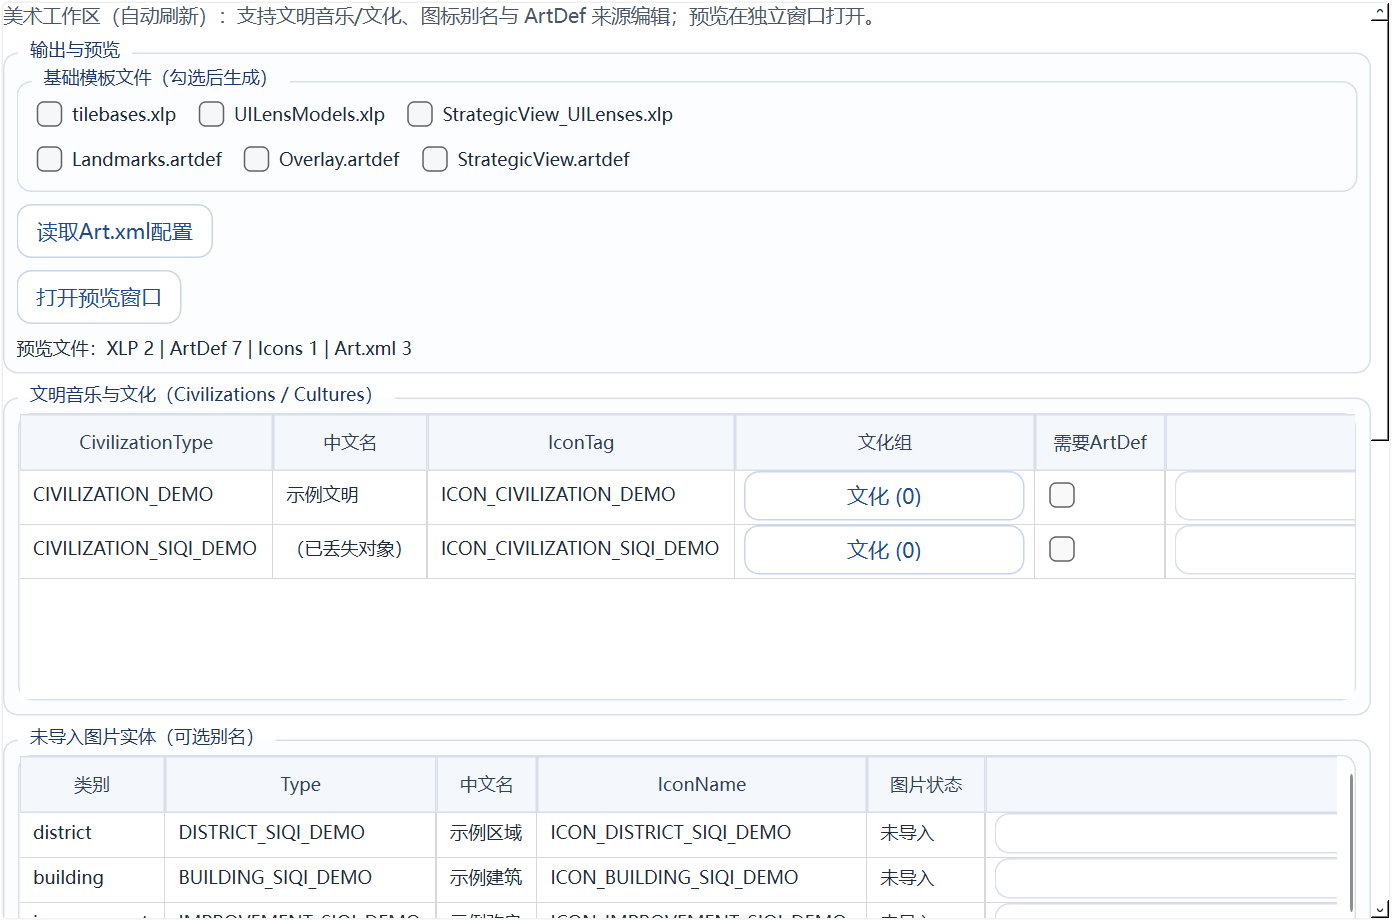
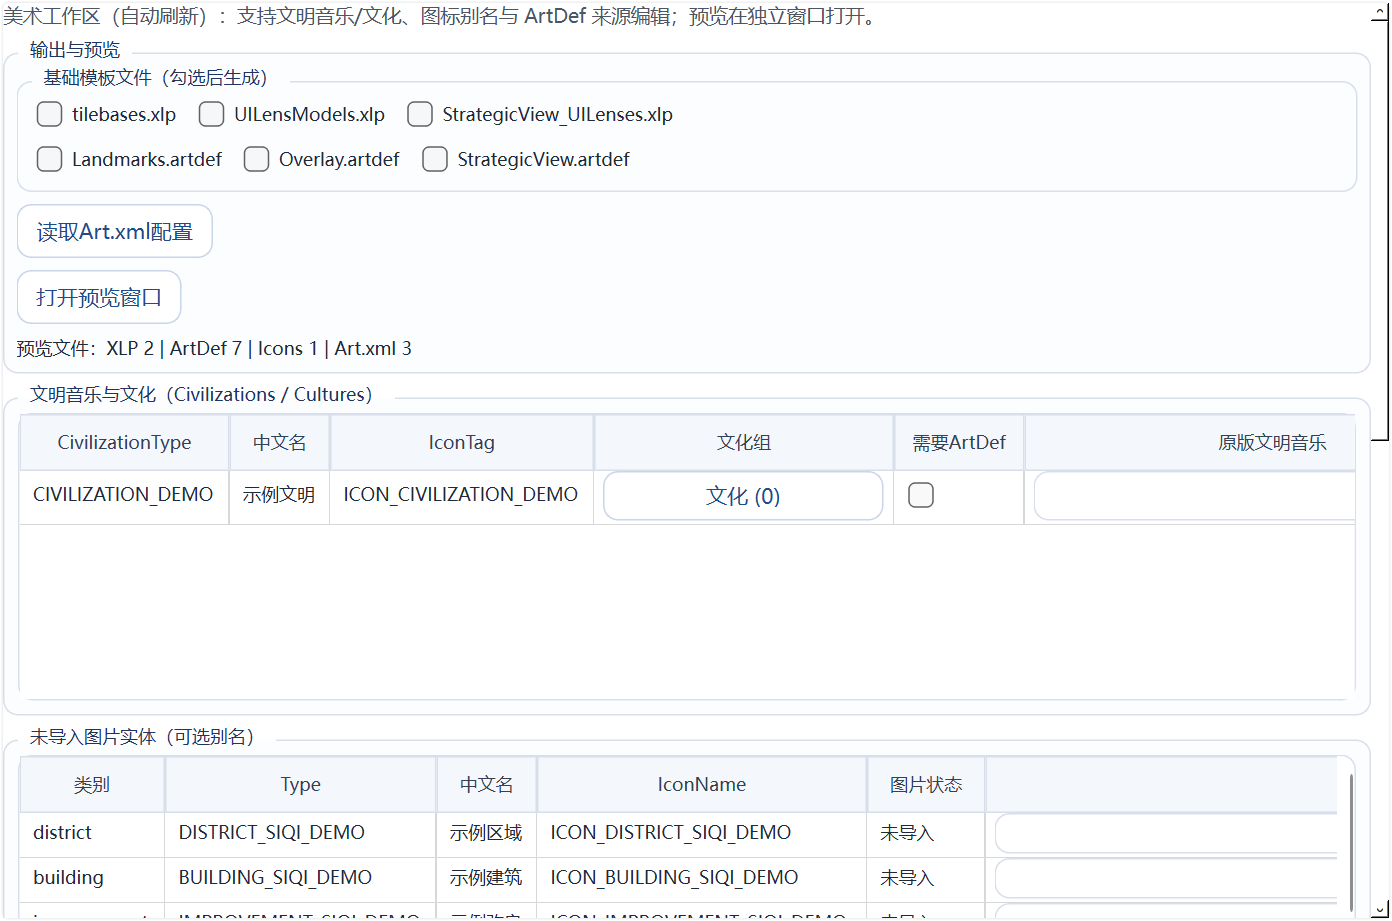
修复美术工作区已丢失对象残留行：不再渲染孤儿行，刷新时清理无配置空残留(保留带配置数据)；新增6个回归用例(45总)；截图重生成

diff --git a/ModTools_5_4/ui/pages/art_workspace.py b/ModTools_5_4/ui/pages/art_workspace.py
@@ -891,6 +891,7 @@ class ArtWorkspacePanel(QWidget):
 
     def refresh_from_sections(self, sections: dict[str, object]) -> None:
         self._sections = sections if isinstance(sections, dict) else {}
+        self._prune_orphan_state()
         self._replacement_maps = self._load_replacement_maps()
         self._civ_source_options = self._load_civ_source_options()
         self._alias_options = self._load_alias_options()
@@ -933,6 +934,54 @@ class ArtWorkspacePanel(QWidget):
             len(self._source_rows),
             str(need_hits),
         )
+
+    def _prune_orphan_state(self) -> None:
+        """清理美术状态中已无对应分区条目的“空配置”残留。
+
+        与历史时刻孤儿行修复同一原则：状态里存在、但分区条目已删除/改名的 key，
+        不再在表格中显示（不再出现“（已丢失对象）”行）；
+        仅当残留没有任何实际配置时才从状态中删除（避免无意义堆积）；
+        仍带配置（need / 音乐 / 文化组 / 源引用）的残留保留在状态中，对象恢复后配置可回填。
+        """
+        section_types = {type_name for type_name, _cn, _entry in self._collect_new_items("文明") if _safe_text(type_name)}
+
+        raw_civs = self._state.get("civs")
+        if isinstance(raw_civs, dict):
+            for civ_type in [key for key in raw_civs]:
+                if civ_type in section_types:
+                    continue
+                meta = raw_civs[civ_type]
+                if not isinstance(meta, dict):
+                    continue
+                cultures = meta.get("cultures")
+                has_cultures = isinstance(cultures, dict) and any(
+                    value for value in cultures.values()
+                    if isinstance(value, (list, tuple, set)) and _safe_text(value)
+                )
+                meaningful = bool(meta.get("need")) or bool(meta.get("music_source")) or has_cultures
+                if not meaningful:
+                    del raw_civs[civ_type]
+
+        source_sections = (
+            ("district", "区域"), ("building", "建筑"),
+            ("improvement", "改良设施"), ("unit", "单位"),
+        )
+        existing_source_keys = {
+            f"{entity}:{type_name}"
+            for entity, section in source_sections
+            for type_name, _cn, _entry in self._collect_new_items(section, name_key="Name")
+            if _safe_text(type_name)
+        }
+        raw_need = self._state.get("need_map")
+        raw_source = self._state.get("source_map")
+        if isinstance(raw_need, dict) and isinstance(raw_source, dict):
+            orphan_keys = (set(raw_need) | set(raw_source)) - existing_source_keys
+            for state_key in orphan_keys:
+                has_need = bool(raw_need.get(state_key))
+                has_source = bool(_safe_text(raw_source.get(state_key)))
+                if not has_need and not has_source:
+                    raw_need.pop(state_key, None)
+                    raw_source.pop(state_key, None)
 
     def _state_moments_map(self) -> dict[str, dict[str, object]]:
         raw = self._state.get("moments_map")
@@ -1399,9 +1448,7 @@ class ArtWorkspacePanel(QWidget):
     def _build_civ_rows(self) -> list[_CivArtRow]:
         section_items = self._collect_new_items("文明")
         section_types = [type_name for type_name, _cn, _entry in section_items if _safe_text(type_name)]
-        state_types = list(self._state_civ_art_map().keys())
-        civ_types = sorted({*section_types, *state_types})
-        labels = self._load_civilization_display_labels(civ_types)
+        labels = self._load_civilization_display_labels(section_types)
         rows: list[_CivArtRow] = []
         for civ_type, cn, _entry in section_items:
             display_cn = cn
@@ -1409,13 +1456,6 @@ class ArtWorkspacePanel(QWidget):
                 label = labels.get(civ_type, "")
                 display_cn = label.split("|", 1)[1].strip() if "|" in label else ""
             rows.append(_CivArtRow(civ_type=civ_type, chinese_name=display_cn))
-
-        # 兼容：旧工程 state 中有 civs，但“文明”分区条目丢失/结构变更导致无法枚举时，仍显示出来。
-        missing = [c for c in state_types if c not in set(section_types)]
-        for civ_type in sorted(missing):
-            label = labels.get(civ_type, "")
-            display_cn = label.split("|", 1)[1].strip() if "|" in label else ""
-            rows.append(_CivArtRow(civ_type=civ_type, chinese_name=display_cn or "（已丢失对象）"))
 
         rows.sort(key=lambda r: r.civ_type)
         return rows
@@ -1778,37 +1818,6 @@ class ArtWorkspacePanel(QWidget):
                         replacement_type=_safe_text(replace_map.get(type_name)),
                     )
                 )
-
-        # 兼容：旧工程 state 中有 need/source，但对应分区条目缺失时，补“孤儿行”避免看起来像没导入。
-        seen = {r.state_key for r in rows}
-        state_keys: set[str] = set()
-        try:
-            state_keys |= set(self._state_need_map().keys())
-        except Exception:
-            pass
-        try:
-            state_keys |= set(self._state_source_map().keys())
-        except Exception:
-            pass
-        allowed_entities = {e for e, _s in mappings}
-        for key in sorted(state_keys):
-            if key in seen:
-                continue
-            if ":" not in key:
-                continue
-            entity, type_name = key.split(":", 1)
-            if entity not in allowed_entities:
-                continue
-            if not _safe_text(type_name):
-                continue
-            rows.append(
-                _ArtdefSourceRow(
-                    entity=entity,
-                    type_name=type_name,
-                    chinese_name="（已丢失对象）",
-                    replacement_type="",
-                )
-            )
 
         rows.sort(key=lambda r: (r.entity, r.type_name))
         return rows

diff --git a/tests/test_art_workspace.py b/tests/test_art_workspace.py
@@ -1,0 +1,104 @@
+"""Regression tests for art workspace orphan-state handling.
+
+Ensures deleted/renamed objects never show up as "（已丢失对象）" rows in the
+美术 workspace, while state carrying real config (music/cultures/artdef
+sources) is preserved.
+"""
+from __future__ import annotations
+
+import os
+import unittest
+
+os.environ.setdefault("QT_QPA_PLATFORM", "offscreen")
+
+from PyQt6.QtWidgets import QApplication  # noqa: E402
+
+from ModTools_5_4.ui.pages.art_workspace import ArtWorkspacePanel  # noqa: E402
+
+from sample_project import build_sample_project  # noqa: E402
+
+
+def _fresh_state() -> dict[str, object]:
+    return {
+        "alias_map": {}, "source_map": {}, "need_map": {},
+        "extra_xlp_flags": {}, "extra_artdef_flags": {},
+        "civs": {}, "moments_map": {}, "leader_xlp_flags": {},
+        "art_xml_workspace_config": {}, "art_xml_source_config": {},
+        "art_xml_source_path": "",
+    }
+
+
+class ArtWorkspaceOrphanTestCase(unittest.TestCase):
+    @classmethod
+    def setUpClass(cls) -> None:
+        cls.app = QApplication.instance() or QApplication([])
+        cls.panel = ArtWorkspacePanel()
+
+    def setUp(self) -> None:
+        self.sections = build_sample_project().sections
+        self.panel._state = _fresh_state()
+        self.panel.refresh_from_sections(self.sections)
+
+    def _civ_table_types(self) -> list[str]:
+        return [
+            self.panel._civ_table.item(r, 0).text()
+            for r in range(self.panel._civ_table.rowCount())
+            if self.panel._civ_table.item(r, 0)
+        ]
+
+    def _source_table_keys(self) -> list[str]:
+        return [
+            f"{self.panel._source_table.item(r, 0).text()}:{self.panel._source_table.item(r, 1).text()}"
+            for r in range(self.panel._source_table.rowCount())
+            if self.panel._source_table.item(r, 0) and self.panel._source_table.item(r, 1)
+        ]
+
+    def test_matching_sections_show_no_lost_rows(self) -> None:
+        self.assertEqual(self._civ_table_types(), ["CIVILIZATION_SIQI_DEMO"])
+        self.assertNotIn("已丢失对象", str(self._civ_table_types()))
+        self.assertIn("district:DISTRICT_SIQI_DEMO", self._source_table_keys())
+
+    def test_deleted_civ_never_shown_and_empty_ghost_pruned(self) -> None:
+        self.sections["文明"] = []
+        self.panel.refresh_from_sections(self.sections)
+        self.assertEqual(self._civ_table_types(), [])
+        self.assertEqual(self.panel._state_civ_art_map(), {})
+
+    def test_configured_ghost_hidden_but_preserved(self) -> None:
+        self.sections["文明"] = []
+        self.panel._state["civs"]["CIVILIZATION_GHOST_CFG"] = {
+            "need": True, "music_source": "", "cultures": {}
+        }
+        self.panel.refresh_from_sections(self.sections)
+        self.assertEqual(self._civ_table_types(), [])
+        self.assertIn("CIVILIZATION_GHOST_CFG", self.panel._state_civ_art_map())
+
+    def test_deleted_district_source_orphan_pruned_when_empty(self) -> None:
+        self.sections["区域"] = []
+        self.panel._state["need_map"] = {"district:DISTRICT_GHOST": False}
+        self.panel._state["source_map"] = {"district:DISTRICT_GHOST": ""}
+        self.panel.refresh_from_sections(self.sections)
+        self.assertEqual(self.panel._state_need_map(), {})
+        self.assertEqual(self.panel._state_source_map(), {})
+        self.assertNotIn("district:DISTRICT_GHOST", self._source_table_keys())
+
+    def test_deleted_district_source_orphan_with_need_kept(self) -> None:
+        self.sections["区域"] = []
+        self.panel._state["need_map"] = {"district:DISTRICT_GHOST": True}
+        self.panel.refresh_from_sections(self.sections)
+        self.assertEqual(self.panel._state_need_map(), {"district:DISTRICT_GHOST": True})
+        self.assertNotIn("district:DISTRICT_GHOST", self._source_table_keys())
+
+    def test_renamed_civ_old_state_pruned(self) -> None:
+        self.sections["文明"][0]["type"] = "CIVILIZATION_SIQI_DEMO_NEW"
+        self.panel.refresh_from_sections(self.sections)
+        self.assertEqual(
+            self._civ_table_types(),
+            ["CIVILIZATION_SIQI_DEMO_NEW"],
+            "renamed civ must not leave a ghost row behind",
+        )
+        self.assertEqual(list(self.panel._state_civ_art_map().keys()), ["CIVILIZATION_SIQI_DEMO_NEW"])
+
+
+if __name__ == "__main__":
+    unittest.main()

diff --git a/ModTools_5_4/CHANGELOG.md b/ModTools_5_4/CHANGELOG.md
@@ -1,5 +1,21 @@
 # Changelog
 
+## 2026-08-02 - 修复：美术工作区"已丢失对象"残留行
+
+### 问题
+- 美术页"文明音乐与文化（Civilizations / Cultures）"与"数据源"表格中，当对象已从对应分区删除/改名后，仍会显示"（已丢失对象）"残留行（旧状态兼容逻辑补的孤儿行）。
+
+### 修复（与历史时刻孤儿行修复同一原则）
+- 表格中不再显示任何"（已丢失对象）"行：`_build_civ_rows` / `_build_source_rows` 移除孤儿行生成逻辑，仅按分区条目渲染。
+- 新增 `_prune_orphan_state()`（刷新时自动调用）：
+  - 状态中无对应分区条目、且**没有任何实际配置**（need / 音乐 / 文化组 / 源引用均为空）的残留 key 直接从状态中删除，避免长期堆积。
+  - 仍带配置的残留**保留在状态中但不再显示**，对象恢复后配置可回填（数据安全）。
+- 顺带修复：`_prune_orphan_state` 中 `list - set` 运算（本修复引入时的一个笔误，会在 Qt 槽内触发硬崩溃）。
+
+### 测试
+- 新增 `tests/test_art_workspace.py`（6 个用例）：无丢失行、删除文明后空幽灵被清理、带配置幽灵保留但隐藏、数据源孤儿清理/保留、改名后旧状态清理。
+- 测试总数 39 → 45。
+
 ## 2026-08-02 - 测试扩充（39 用例）+ 晋升预览崩溃修复 + 截图扩充
 
 ### 测试扩充（39 个用例，本地运行）
